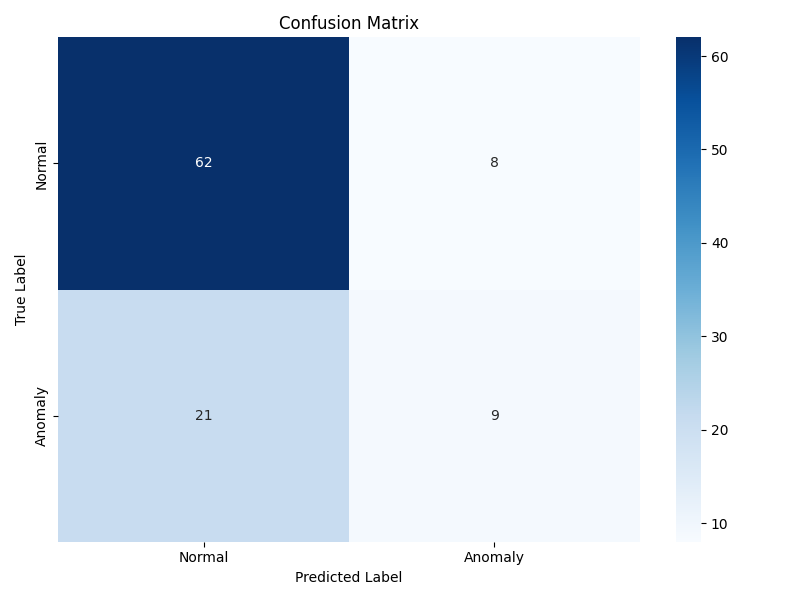
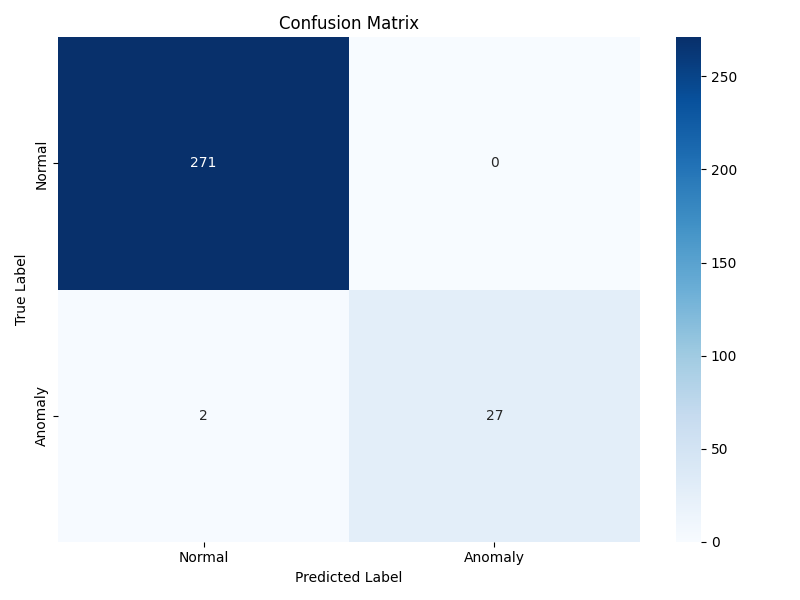
update training

diff --git a/gcn_anomaly_detection/src/train.py b/gcn_anomaly_detection/src/train.py
@@ -14,116 +14,94 @@ from gcn_model import GCNAnomalyDetector
 from utils import calculate_metrics, print_metrics_comparison
 
 class Trainer:
-    def __init__(self, dataset, num_epochs=100, lr=0.005, batch_size=64, k_folds=5):
-        self.dataset = dataset
+    def __init__(self, train_graph_path, val_graph_path, num_epochs=100, lr=0.005, batch_size=64):
+        self.train_graph = torch.load(train_graph_path, weights_only=False)
+        self.val_graph = torch.load(val_graph_path, weights_only=False)
         self.num_epochs = num_epochs
         self.lr = lr
         self.batch_size = batch_size
-        self.k_folds = k_folds
         self.device = torch.device("cuda" if torch.cuda.is_available() else "cpu")
         print(f"Using device: {self.device}")
 
     def train(self):
-        if len(self.dataset) == 0:
-            raise ValueError("Dataset is empty!")
+        train_loader = DataLoader([self.train_graph], batch_size=self.batch_size, shuffle=True)
+        val_loader = DataLoader([self.val_graph], batch_size=self.batch_size)
 
-        kfold = KFold(n_splits=self.k_folds, shuffle=True)
-        results = []
+        model = GCNAnomalyDetector(
+            input_dim=self.train_graph.num_features, 
+            hidden_dim=64, 
+            output_dim=2
+        ).to(self.device)
 
-        for fold, (train_idx, val_idx) in enumerate(kfold.split(self.dataset)):
-            print(f"\n=== Fold {fold + 1}/{self.k_folds} ===")
-            print(f"Train samples: {len(train_idx)}, Val samples: {len(val_idx)}")
+        optimizer = optim.Adam(model.parameters(), lr=self.lr)
+        criterion = nn.NLLLoss()
 
-            train_dataset = Subset(self.dataset, train_idx)
-            val_dataset = Subset(self.dataset, val_idx)
+        best_val_loss = float("inf")
+        train_losses, val_losses = [], []
 
-            train_loader = DataLoader(
-                train_dataset, batch_size=self.batch_size, shuffle=True
-            )
-            val_loader = DataLoader(val_dataset, batch_size=self.batch_size)
+        for epoch in range(self.num_epochs):
+            # Training
+            model.train()
+            epoch_loss = 0
+            for batch in train_loader:
+                batch = batch.to(self.device)
+                optimizer.zero_grad()
+                out = model(batch)
+                loss = criterion(out, batch.y)
+                loss.backward()
+                optimizer.step()
+                epoch_loss += loss.item()
 
-            model = GCNAnomalyDetector(
-                input_dim=self.dataset.num_features, hidden_dim=64, output_dim=2
-            ).to(self.device)
+            # Validation
+            val_loss, val_metrics = self.evaluate(model, val_loader, criterion)
+            train_losses.append(epoch_loss / len(train_loader))
+            val_losses.append(val_loss)
 
-            optimizer = optim.Adam(model.parameters(), lr=self.lr)
-            criterion = nn.NLLLoss()
+            if val_loss < best_val_loss:
+                best_val_loss = val_loss
+                torch.save(model.state_dict(), "best_model.pt")
 
-            best_val_loss = float("inf")
-            train_losses, val_losses = [], []
+            if epoch % 10 == 0:
+                print(
+                    f"Epoch {epoch:03d} | Train Loss: {train_losses[-1]:.4f} | Val Loss: {val_loss:.4f}"
+                )
 
-            for epoch in range(self.num_epochs):
-                # Training
-                model.train()
-                epoch_loss = 0
-                for batch in train_loader:
-                    batch = batch.to(self.device)
-                    optimizer.zero_grad()
-                    out = model(batch)
-                    loss = criterion(out, batch.y)
-                    loss.backward()
-                    optimizer.step()
-                    epoch_loss += loss.item()
-
-                # Validation
-                val_loss, val_metrics = self.evaluate(model, val_loader, criterion)
-                train_losses.append(epoch_loss / len(train_loader))
-                val_losses.append(val_loss)
-
-                if val_loss < best_val_loss:
-                    best_val_loss = val_loss
-                    torch.save(model.state_dict(), f"best_model_fold{fold}.pt")
-
-                if epoch % 10 == 0:
-                    print(
-                        f"Epoch {epoch:03d} | Train Loss: {train_losses[-1]:.4f} | Val Loss: {val_loss:.4f}"
-                    )
-
-            results.append(
-                {
-                    "fold": fold,
-                    "train_losses": train_losses,
-                    "val_losses": val_losses,
-                    "best_metrics": val_metrics,
-                }
-            )
-
-        self.print_metrics_comparison(results)
-        return results
-
+        return {
+            "train_losses": train_losses,
+            "val_losses": val_losses,
+            "best_metrics": val_metrics,
+        }
+    
     def evaluate(self, model, data_loader, criterion):
         model.eval()
         total_loss = 0
         all_preds = []
         all_labels = []
         all_probs = []
-        
+
         with torch.no_grad():
             for batch in data_loader:
                 batch = batch.to(self.device)
                 out = model(batch)
                 loss = criterion(out, batch.y)
                 total_loss += loss.item()
-                
+
                 preds = out.argmax(dim=1).cpu().numpy()
                 probs = out.softmax(dim=1)[:, 1].cpu().numpy()
                 labels = batch.y.cpu().numpy()
-                
+
                 all_preds.extend(preds)
                 all_labels.extend(labels)
                 all_probs.extend(probs)
-        
+
         avg_loss = total_loss / len(data_loader)
-        
-        # Calculate metrics
         accuracy = np.mean(np.array(all_preds) == np.array(all_labels))
         f1 = f1_score(all_labels, all_preds, average="macro")
-        
         try:
             roc_auc = roc_auc_score(all_labels, all_probs)
         except ValueError:
             roc_auc = 0.5  # Default value for undefined ROC-AUC
-        
+
         metrics = {
             "accuracy": accuracy,
             "f1": f1,
@@ -131,53 +109,25 @@ class Trainer:
         }
         return avg_loss, metrics
 
-    def print_metrics_comparison(self, results):
-        print("\n=== Comparative Performance ===")
-        print("Fold\tAccuracy\tF1-Score\tROC-AUC")
-        for res in results:
-            metrics = res["best_metrics"]
-            print(
-                f"{res['fold'] + 1}\t"
-                f"{metrics['accuracy']:.4f}\t\t"
-                f"{metrics['f1']:.4f}\t\t"
-                f"{metrics['roc_auc']:.4f}"
-            )
-
 def main():
     print("Initializing training...")
-
-    # Example synthetic dataset
-    from torch_geometric.data import Data
-
-    class SyntheticDataset(torch.utils.data.Dataset):
-        def __init__(self, num_graphs=5, num_nodes=100, num_features=10):
-            self.num_features = num_features
-            self.data = [
-                Data(
-                    x=torch.randn(num_nodes, num_features),
-                    edge_index=torch.randint(0, num_nodes, (2, 200)),
-                    y=torch.randint(0, 2, (num_nodes,))
-                )
-                for _ in range(num_graphs)
-            ]
-
-        def __len__(self):
-            return len(self.data)
-
-        def __getitem__(self, idx):
-            return self.data[idx]
-
+    
     try:
-        dataset = SyntheticDataset()
-        print(f"Dataset loaded with {len(dataset)} graphs")
-
-        trainer = Trainer(dataset, num_epochs=100)
+        # Paths to your graph files
+        train_graph_path = "data/processed/train_graph.pt"
+        val_graph_path = "data/processed/val_graph.pt"
+        
+        trainer = Trainer(
+            train_graph_path=train_graph_path,
+            val_graph_path=val_graph_path,
+            num_epochs=100
+        )
+        
         results = trainer.train()
         print("Training completed successfully!")
         return results
     except Exception as e:
         print(f"Error during training: {str(e)}")
         return None
-
 if __name__ == "__main__":
     main()

diff --git a/gcn_anomaly_detection/src/evaluate.py b/gcn_anomaly_detection/src/evaluate.py
@@ -75,17 +75,16 @@ def main():
         device = torch.device("cuda" if torch.cuda.is_available() else "cpu")
         print(f"Using device: {device}")
 
-        # Load test dataset
-        test_dataset = TestDataset()
-        test_loader = DataLoader(
-            test_dataset, batch_size=1
-        )  # Process one graph at a time
+        # Load the real test graph
+        real_test_graph = torch.load("data/processed/test_graph.pt", weights_only=False)
+        print(real_test_graph.x.shape)
+        test_loader = DataLoader([real_test_graph], batch_size=1)
 
         # Initialize model
-        model = GCNAnomalyDetector(input_dim=10, hidden_dim=64, output_dim=2).to(device)
+        model = GCNAnomalyDetector(input_dim=3, hidden_dim=64, output_dim=2).to(device)
 
         # Load trained weights
-        model_path = "best_model_fold0.pt"  # Or 'best_model_fold0.pt'
+        model_path = "best_model.pt" 
         if os.path.exists(model_path):
             model.load_state_dict(torch.load(model_path, map_location=device))
             print(f"Model loaded from {model_path}")
